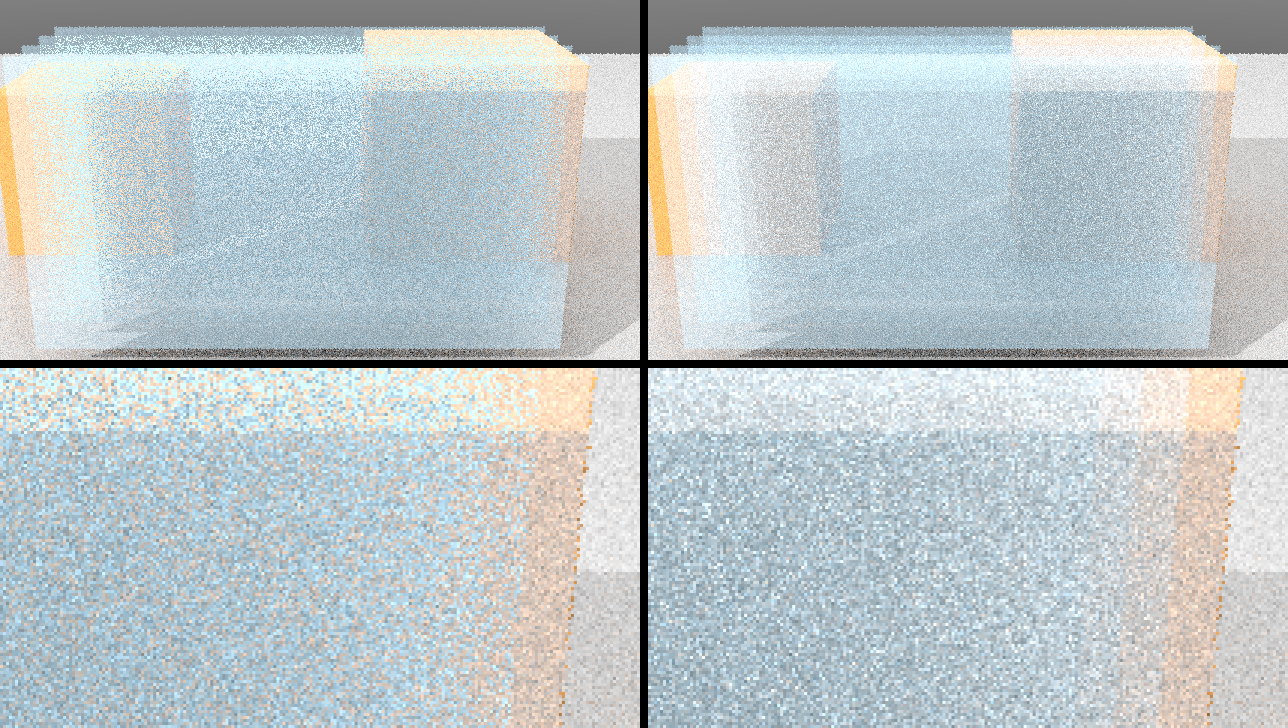
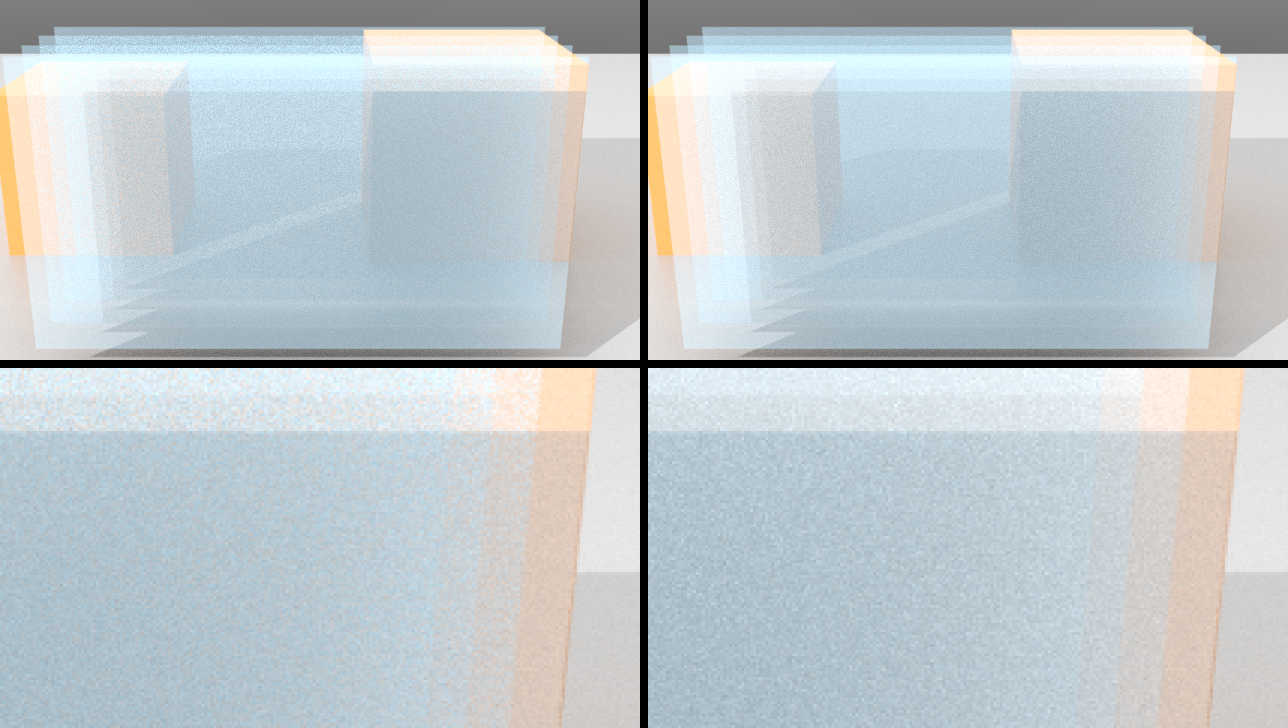
0.4.2 notes: the Presence Quality, fog in Cryptomatte and fog in alpha pictures rendered again at 16 samples a pixel
They had been rendered at one sample a pixel by mistake.

Changed region(s): [[0.0, 0.0302, 1.0, 1.0], [0.9938, 0.9066, 1.0, 0.9368], [0.9317, 0.0604, 0.9627, 0.0907]]

diff --git a/docs/WHATS_NEW_04.md b/docs/WHATS_NEW_04.md
@@ -86,7 +86,7 @@ Not released yet: on the MoonLightIPR branch.
 
 ![Four partly see-through panes in front of two boxes, at Presence Quality 0 and 1](images/presence-quality.png)
 
-*Presence Quality: four partly see-through panes in front of the orange boxes, at the same samples. At 0 (left) chance picks which pane a ray stops on, and the boxes behind break into orange and blue speckle (enlarged below); at 1 (right) every pane is followed and only the usual grain is left. Here 1 took twice as long.*
+*Presence Quality: four partly see-through panes in front of the orange boxes, at 16 samples a pixel. At 0 (left) chance picks which pane a ray stops on, and the boxes behind break into orange and blue speckle (enlarged below); at 1 (right) every pane is followed and only the usual grain is left. Here 1 took two and a half times as long.*
 
 ![The Render item's Bounces section with Sample Hair Lobes Separately](images/hair-lobes-setting.png)
 
